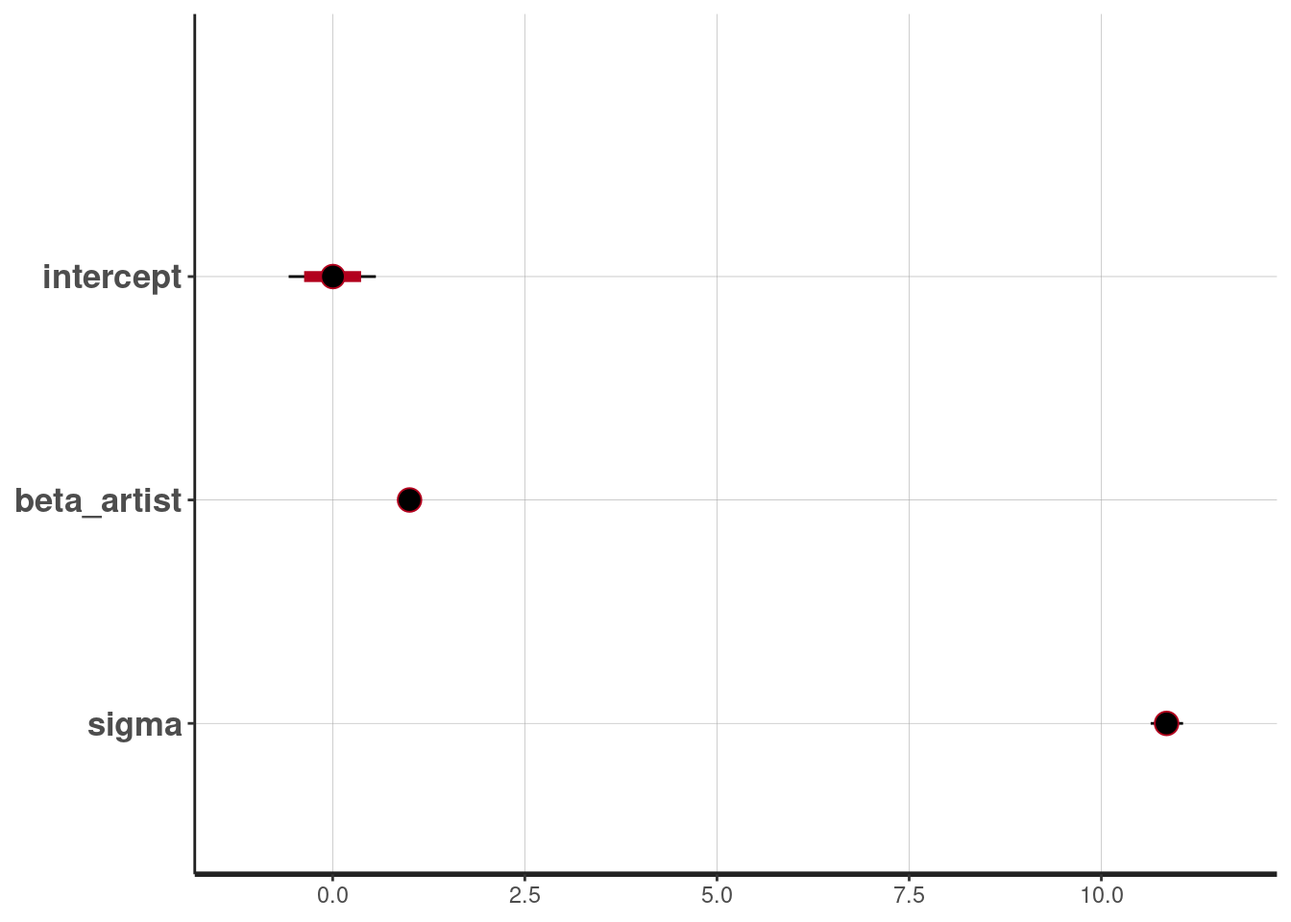
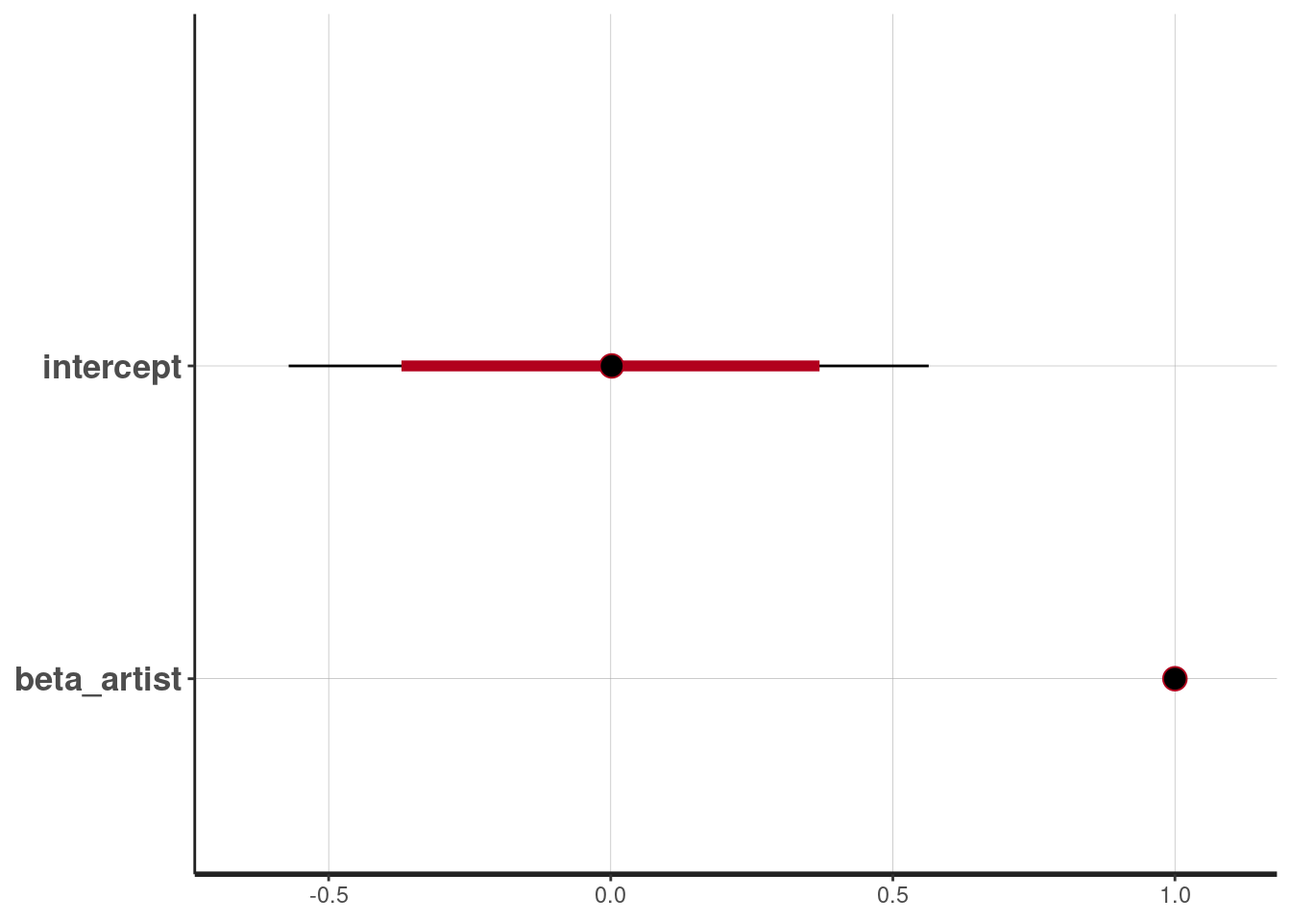
ya con render

diff --git a/main.html b/main.html
@@ -92,9 +92,9 @@ pre > code.sourceCode > span > a:first-child::before { text-decoration: underlin
     <div>
     <div class="quarto-title-meta-heading">Authors</div>
     <div class="quarto-title-meta-contents">
-             <p>García Aguilar Luis Alberto </p>
-             <p>Sara Luz Valenzuela Camacho </p>
-             <p>Valeria </p>
+             <p>Luis Alberto García Aguilar </p>
+             <p>Sara Luz Valenzuela Camacho (204535) </p>
+             <p>Valeria Durán Rubio (124273) </p>
              <p>Iván </p>
           </div>
   </div>
@@ -113,21 +113,15 @@ pre > code.sourceCode > span > a:first-child::before { text-decoration: underlin
 </header>
 
 <section id="análisis-de-popularidad-de-canciones-en-spotify" class="level1">
-<h1>Análisis de popularidad de canciones en spotify</h1>
+<h1>Análisis de popularidad de canciones en Spotify</h1>
 <section id="introducción" class="level2">
 <h2 class="anchored" data-anchor-id="introducción">Introducción</h2>
-<p>De acuerdo con wikipedia, en la plataforma de Spotify se tiene acceso a más de 100 millones de canciones. Algunas canciones son más populares que otras. Si definimos a la variable 𝑌 como un rating de popularidad con 𝑌 ∈ [0, 100]. En general, entre más reproducciones recientes tenga una una canción, su rating de popularidad será mayor.</p>
-<p>Sabemos que la popularidad de una canción, no siempre es reflejo de su calidad, popularidad a largo plazo, o popularidad afuera de la audiencia de Spotify. Además del artista hay otras características que hacen popular a una canción, como la “valencia”, que define que tan alegre suena una pieza.</p>
+<p>De acuerdo con Wikipedia, en la plataforma de Spotify se tiene acceso a más de 100 millones de canciones. Algunas canciones son más populares que otras. Definimos a la variable <span class="math inline">\(Y\)</span> como un rating de popularidad con <span class="math inline">\(Y ∈ [0, 100]\)</span>. En general, entre más reproducciones recientes tenga una una canción, su rating de popularidad será mayor.</p>
+<p>Sabemos que la popularidad de una canción, no siempre es reflejo de su calidad, popularidad a largo plazo, o popularidad a fuera de la audiencia de Spotify. Además del artista hay otras características que hacen popular a una canción, como la “valencia”, que define qué tan alegre suena una pieza.</p>
 <p>Para el proyecto nos enfocaremos en entender:</p>
-<p><strong>Falta mencionar el modelo lineal y modelo lineal con prioris informativas</strong> * ¿Cuál es la popularidad típica de una canción en Spotify? * ¿Hasta donde influye el artista en la popularidad de la canción? * Para un sólo artista, ¿cómo varía la popularidad de sus canciones? * ¿Cómo influye la valencia en la popularidad de una canción?</p>
+<p><strong>Falta mencionar el modelo lineal y modelo lineal con prioris informativas</strong> * ¿Cuál es la popularidad típica de una canción en Spotify? * ¿Hasta dónde influye el artista en la popularidad de la canción? * Para un sólo artista, ¿cómo varía la popularidad de sus canciones? * ¿Cómo influye la valencia en la popularidad de una canción?</p>
 <p>Métodos:</p>
-<p>Para nuestro proyecto planeamos hacer tres tipos de modelos:</p>
-<ul>
-<li><strong>Modelo con parámetros homogéneos:</strong> Modelar la popularidad de las canciones sin tomar en cuenta el artista.</li>
-<li><strong>Modelo con parámetros heterogéneos:</strong> Modelar la popularidad de las canciones tomando en cuenta a los artistas que las interpretan.</li>
-<li><strong>Modelo Jerárquico:</strong> Una alternativa intermedia donde permitimos que la distribución inicial sobre la popularidad pueda adaptarse a los datos. Y comparar sus distribuciones predictivas con los datos observados, para ver cuál modela mejor y porqué.</li>
-<li><strong>Modelo Jerarquico con DAG:</strong> Haremos un DAG para agregar al modelo jerárquico la variable de valencia.</li>
-</ul>
+<p>Para nuestro proyecto haremos tres tipos de modelos: 1) Modelo con parámetros homogéneos: Modelar la popularidad de las canciones sin tomar en cuenta el artista. 2) Modelo con parámetros heterogéneos: Modelar la popularidad de las canciones tomando en cuenta a los artistas que las interpretan. 3) Modelo jerárquico: Una alternativa intermedia donde permitimos que la distribución inicial sobre la popularidad pueda adaptarse a los datos. Y comparar sus distribuciones predictivas con los datos observados, para ver cuál modela mejor y porqué. 3b) Modelo jerárquico con DAG: Haremos un DAG para agregar la variable de valencia al modelo jerárquico.</p>
 <p>Las librerías que utilizamos son las soguientes:</p>
 <div class="cell" data-hash="main_cache/html/unnamed-chunk-1_75c872f24e6f6362edeb678bcc09647f">
 <div class="sourceCode cell-code" id="cb1"><pre class="sourceCode r code-with-copy"><code class="sourceCode r"><span id="cb1-1"><a href="#cb1-1" aria-hidden="true" tabindex="-1"></a><span class="fu">library</span>(rstan)</span>
@@ -174,71 +168,71 @@ $ time_signature   &lt;int&gt; 4, 4, 4, 3, 4, 4, 3, 4, 4, 4, 4, 3, 4, 4, 4, 3, 4
 $ track_genre      &lt;chr&gt; "acoustic", "acoustic", "acoustic", "acoustic", "acou…</code></pre>
 </div>
 </div>
-<p>Contamos con 114000 registros de canciones y 21 características que los representan. Sin embargo vamos a ocupar sólo una muestra de 57,000 canciones. En el Anexo 1 de este trabajo se encuentra la limpieza y adecuación de datos para su uso en la modelación de la popularidad de las canciones.</p>
-<div class="cell" data-hash="main_cache/html/unnamed-chunk-3_81a0fdc6a64690fd858f997ca193c21f">
-<div class="sourceCode cell-code" id="cb4"><pre class="sourceCode r code-with-copy"><code class="sourceCode r"><span id="cb4-1"><a href="#cb4-1" aria-hidden="true" tabindex="-1"></a>datos <span class="ot">&lt;-</span> <span class="fu">read.csv</span>(<span class="st">"datos/muestra.csv"</span>) </span></code><button title="Copy to Clipboard" class="code-copy-button"><i class="bi"></i></button></pre></div>
+<p>Tenemos 114 mil registros de canciones y 21 características que los representan.Sin embargo vamos a ocupar sólo una muestra de 57,000 canciones. En el Anexo 1 de este trabajo se encuentra la limpieza y adecuación de datos para su uso en la modelación de la popularidad de las canciones.</p>
+<div class="cell" data-hash="main_cache/html/unnamed-chunk-3_ad334e488fdc50447e10ba54450b080e">
+<div class="sourceCode cell-code" id="cb4"><pre class="sourceCode r code-with-copy"><code class="sourceCode r"><span id="cb4-1"><a href="#cb4-1" aria-hidden="true" tabindex="-1"></a>datos <span class="ot">&lt;-</span> <span class="fu">read.csv</span>(<span class="st">"datos/muestra.csv"</span>)</span></code><button title="Copy to Clipboard" class="code-copy-button"><i class="bi"></i></button></pre></div>
 </div>
-<p>Obtenemos un resumen de los datos y sus variables</p>
-<div class="cell" data-hash="main_cache/html/unnamed-chunk-4_6050a89863c2cb02b7abe0d4f4a1df64">
+<p>Obtenemos un resumen de los datos y sus variables.</p>
+<div class="cell" data-hash="main_cache/html/unnamed-chunk-4_abce9368e1d0628749d503b878ec4e8d">
 <div class="sourceCode cell-code" id="cb5"><pre class="sourceCode r code-with-copy"><code class="sourceCode r"><span id="cb5-1"><a href="#cb5-1" aria-hidden="true" tabindex="-1"></a><span class="fu">print</span>(<span class="fu">summary</span>(datos))</span></code><button title="Copy to Clipboard" class="code-copy-button"><i class="bi"></i></button></pre></div>
 <div class="cell-output cell-output-stdout">
 <pre><code> artists_numeric       id           track_id           artists         
- Min.   :    1   Min.   :     0   Length:57000       Length:57000      
- 1st Qu.: 5327   1st Qu.: 28317   Class :character   Class :character  
- Median :10477   Median : 56956   Mode  :character   Mode  :character  
- Mean   :10564   Mean   : 57037                                        
- 3rd Qu.:15830   3rd Qu.: 85600                                        
- Max.   :21163   Max.   :113997                                        
-  album_name         track_name          popularity      duration_ms     
- Length:57000       Length:57000       Min.   :  0.00   Min.   :   8586  
- Class :character   Class :character   1st Qu.: 17.00   1st Qu.: 174002  
- Mode  :character   Mode  :character   Median : 34.00   Median : 212924  
-                                       Mean   : 33.15   Mean   : 228168  
-                                       3rd Qu.: 50.00   3rd Qu.: 261096  
-                                       Max.   :100.00   Max.   :5237295  
-    explicit        danceability        energy            key        
- Min.   :0.00000   Min.   :0.0000   Min.   :0.0000   Min.   : 0.000  
- 1st Qu.:0.00000   1st Qu.:0.4560   1st Qu.:0.4730   1st Qu.: 2.000  
- Median :0.00000   Median :0.5800   Median :0.6830   Median : 5.000  
- Mean   :0.08574   Mean   :0.5665   Mean   :0.6409   Mean   : 5.307  
- 3rd Qu.:0.00000   3rd Qu.:0.6950   3rd Qu.:0.8530   3rd Qu.: 8.000  
- Max.   :1.00000   Max.   :0.9850   Max.   :1.0000   Max.   :11.000  
+ Min.   :    1   Min.   :     6   Length:28500       Length:28500      
+ 1st Qu.: 3447   1st Qu.: 28646   Class :character   Class :character  
+ Median : 6772   Median : 56993   Mode  :character   Mode  :character  
+ Mean   : 6785   Mean   : 57185                                        
+ 3rd Qu.:10143   3rd Qu.: 85846                                        
+ Max.   :13569   Max.   :113997                                        
+  album_name         track_name          popularity     duration_ms     
+ Length:28500       Length:28500       Min.   :  0.0   Min.   :  13386  
+ Class :character   Class :character   1st Qu.: 17.0   1st Qu.: 173653  
+ Mode  :character   Mode  :character   Median : 35.0   Median : 212696  
+                                       Mean   : 33.2   Mean   : 227813  
+                                       3rd Qu.: 50.0   3rd Qu.: 260444  
+                                       Max.   :100.0   Max.   :4339826  
+    explicit        danceability        energy               key        
+ Min.   :0.00000   Min.   :0.0000   Min.   :0.0000195   Min.   : 0.000  
+ 1st Qu.:0.00000   1st Qu.:0.4560   1st Qu.:0.4730000   1st Qu.: 2.000  
+ Median :0.00000   Median :0.5800   Median :0.6860000   Median : 5.000  
+ Mean   :0.08509   Mean   :0.5668   Mean   :0.6421921   Mean   : 5.275  
+ 3rd Qu.:0.00000   3rd Qu.:0.6960   3rd Qu.:0.8540000   3rd Qu.: 8.000  
+ Max.   :1.00000   Max.   :0.9800   Max.   :1.0000000   Max.   :11.000  
     loudness            mode         speechiness       acousticness   
- Min.   :-46.591   Min.   :0.0000   Min.   :0.00000   Min.   :0.0000  
- 1st Qu.:-10.015   1st Qu.:0.0000   1st Qu.:0.03590   1st Qu.:0.0170  
- Median : -7.002   Median :1.0000   Median :0.04880   Median :0.1680  
- Mean   : -8.269   Mean   :0.6374   Mean   :0.08462   Mean   :0.3152  
- 3rd Qu.: -5.013   3rd Qu.:1.0000   3rd Qu.:0.08410   3rd Qu.:0.5990  
- Max.   :  3.156   Max.   :1.0000   Max.   :0.96300   Max.   :0.9960  
- instrumentalness       liveness         valence          tempo       
- Min.   :0.0000000   Min.   :0.0000   Min.   :0.000   Min.   :  0.00  
- 1st Qu.:0.0000000   1st Qu.:0.0979   1st Qu.:0.258   1st Qu.: 99.45  
- Median :0.0000406   Median :0.1320   Median :0.464   Median :122.04  
- Mean   :0.1557287   Mean   :0.2137   Mean   :0.474   Mean   :122.16  
- 3rd Qu.:0.0483250   3rd Qu.:0.2720   3rd Qu.:0.683   3rd Qu.:140.07  
- Max.   :1.0000000   Max.   :1.0000   Max.   :0.995   Max.   :220.53  
+ Min.   :-43.957   Min.   :0.0000   Min.   :0.00000   Min.   :0.0000  
+ 1st Qu.: -9.959   1st Qu.:0.0000   1st Qu.:0.03590   1st Qu.:0.0163  
+ Median : -6.967   Median :1.0000   Median :0.04870   Median :0.1630  
+ Mean   : -8.249   Mean   :0.6371   Mean   :0.08368   Mean   :0.3123  
+ 3rd Qu.: -5.011   3rd Qu.:1.0000   3rd Qu.:0.08320   3rd Qu.:0.5930  
+ Max.   :  1.023   Max.   :1.0000   Max.   :0.96200   Max.   :0.9960  
+ instrumentalness       liveness         valence           tempo       
+ Min.   :0.0000000   Min.   :0.0000   Min.   :0.0000   Min.   :  0.00  
+ 1st Qu.:0.0000000   1st Qu.:0.0982   1st Qu.:0.2580   1st Qu.: 99.35  
+ Median :0.0000384   Median :0.1320   Median :0.4640   Median :122.02  
+ Mean   :0.1571333   Mean   :0.2140   Mean   :0.4741   Mean   :122.06  
+ 3rd Qu.:0.0520000   3rd Qu.:0.2730   3rd Qu.:0.6850   3rd Qu.:140.06  
+ Max.   :1.0000000   Max.   :0.9940   Max.   :0.9950   Max.   :220.53  
  time_signature  track_genre        genre_factor       genre_numeric   
- Min.   :0.000   Length:57000       Length:57000       Min.   :  1.00  
+ Min.   :0.000   Length:28500       Length:28500       Min.   :  1.00  
  1st Qu.:4.000   Class :character   Class :character   1st Qu.: 29.00  
  Median :4.000   Mode  :character   Mode  :character   Median : 58.00  
- Mean   :3.902                                         Mean   : 57.54  
- 3rd Qu.:4.000                                         3rd Qu.: 86.00  
+ Mean   :3.903                                         Mean   : 57.69  
+ 3rd Qu.:4.000                                         3rd Qu.: 87.00  
  Max.   :5.000                                         Max.   :114.00  
  artists_factor     popularity_artist
- Length:57000       Min.   :  0.00   
- Class :character   1st Qu.: 19.31   
- Mode  :character   Median : 33.16   
-                    Mean   : 33.15   
-                    3rd Qu.: 47.00   
-                    Max.   :100.00   </code></pre>
+ Length:28500       Min.   :  0.0    
+ Class :character   1st Qu.: 19.0    
+ Mode  :character   Median : 33.5    
+                    Mean   : 33.2    
+                    3rd Qu.: 47.8    
+                    Max.   :100.0    </code></pre>
 </div>
 </div>
+<p>Cabe destacar que la popularidad va de 0 a 100, con una mediana de 33.24. Por su parte, la danzabilidad se mide entre 0 y 1 con una mediana de 0.57; asimismo, la energía varía entre 0 y 1 con una mediana de 0.64. La valencia oscila entre 0 y 1 con una mediana de 0.47, mientras que el tempo va de 0 a 243.37 con una mediana de 122.15.</p>
 </section>
-</section>
-<section id="métodos" class="level1">
-<h1>Métodos</h1>
-<section id="modelo-lineal" class="level2">
-<h2 class="anchored" data-anchor-id="modelo-lineal">Modelo lineal</h2>
+<section id="métodos" class="level2">
+<h2 class="anchored" data-anchor-id="métodos">Métodos</h2>
+<section id="modelo-lineal" class="level3">
+<h3 class="anchored" data-anchor-id="modelo-lineal">Modelo lineal</h3>
 <p>Generamos un modelo lineal con priors poco informativas.</p>
 <p>El modelo lineal simple lo expresamos como:</p>
 <p><span class="math inline">\(y_i=\beta_0 + \beta_1 * x_i + \sigma_i\)</span></p>
@@ -364,11 +358,14 @@ convergence, Rhat=1).</code></pre>
 </div>
 </div>
 <p>Observamos intervalos de credibilidad</p>
-<div class="cell" data-hash="main_cache/html/unnamed-chunk-8_5ccb78beffb7802c3d493b4ce45b56c4">
-<div class="sourceCode cell-code" id="cb17"><pre class="sourceCode r code-with-copy"><code class="sourceCode r"><span id="cb17-1"><a href="#cb17-1" aria-hidden="true" tabindex="-1"></a>extract_lineal <span class="ot">&lt;-</span> rstan<span class="sc">::</span><span class="fu">extract</span>(fit_lineal, <span class="at">permuted =</span> <span class="cn">TRUE</span>)</span>
+<div class="cell" data-hash="main_cache/html/unnamed-chunk-8_0c31dabf22d36b89abf84f55563e2706">
+<div class="sourceCode cell-code" id="cb17"><pre class="sourceCode r code-with-copy"><code class="sourceCode r"><span id="cb17-1"><a href="#cb17-1" aria-hidden="true" tabindex="-1"></a>extract_lineal <span class="ot">&lt;-</span> rstan<span class="sc">::</span><span class="fu">extract</span>(fit_lineal)</span>
 <span id="cb17-2"><a href="#cb17-2" aria-hidden="true" tabindex="-1"></a></span>
-<span id="cb17-3"><a href="#cb17-3" aria-hidden="true" tabindex="-1"></a></span>
-<span id="cb17-4"><a href="#cb17-4" aria-hidden="true" tabindex="-1"></a><span class="fu">stan_plot</span>(fit_lineal, <span class="at">prob =</span> <span class="fl">0.95</span>)</span></code><button title="Copy to Clipboard" class="code-copy-button"><i class="bi"></i></button></pre></div>
+<span id="cb17-3"><a href="#cb17-3" aria-hidden="true" tabindex="-1"></a><span class="fu">stan_plot</span>(</span>
+<span id="cb17-4"><a href="#cb17-4" aria-hidden="true" tabindex="-1"></a>  fit_lineal, </span>
+<span id="cb17-5"><a href="#cb17-5" aria-hidden="true" tabindex="-1"></a>  <span class="at">pars =</span> <span class="fu">c</span>(<span class="st">"mu_popularity"</span>, <span class="st">"beta_duration"</span>, <span class="st">"beta_explicito"</span>, <span class="st">"beta_dance"</span>, <span class="st">"beta_tempo"</span>, <span class="st">"beta_genre"</span>), </span>
+<span id="cb17-6"><a href="#cb17-6" aria-hidden="true" tabindex="-1"></a>  <span class="at">prob =</span> <span class="fl">0.95</span></span>
+<span id="cb17-7"><a href="#cb17-7" aria-hidden="true" tabindex="-1"></a>)</span></code><button title="Copy to Clipboard" class="code-copy-button"><i class="bi"></i></button></pre></div>
 <div class="cell-output cell-output-stderr">
 <pre><code>ci_level: 0.8 (80% intervals)</code></pre>
 </div>
@@ -381,8 +378,8 @@ convergence, Rhat=1).</code></pre>
 </div>
 <p>Podemos ver tambien, al observar los coeficientes, que el género y el grado de “daceability” tienen una mayor influencia sobre la popularidad de una canción.</p>
 </section>
-<section id="modelo-lineal-con-prioris-informativas" class="level2">
-<h2 class="anchored" data-anchor-id="modelo-lineal-con-prioris-informativas">Modelo lineal con prioris informativas</h2>
+<section id="modelo-lineal-con-prioris-informativas" class="level3">
+<h3 class="anchored" data-anchor-id="modelo-lineal-con-prioris-informativas">Modelo lineal con prioris informativas</h3>
 <p>Modelamos la opularidad en base a las siguientes características:</p>
 <ul>
 <li>Duración: duration_ms</li>
@@ -574,8 +571,12 @@ convergence, Rhat=1).</code></pre>
 </div>
 </div>
 <p>Observamos intervalos de credibilidad</p>
-<div class="cell" data-hash="main_cache/html/unnamed-chunk-12_4be58895289a6c402d98ff8bd388e37f">
-<div class="sourceCode cell-code" id="cb28"><pre class="sourceCode r code-with-copy"><code class="sourceCode r"><span id="cb28-1"><a href="#cb28-1" aria-hidden="true" tabindex="-1"></a><span class="fu">stan_plot</span>(fit, <span class="at">prob =</span> <span class="fl">0.95</span>)</span></code><button title="Copy to Clipboard" class="code-copy-button"><i class="bi"></i></button></pre></div>
+<div class="cell" data-hash="main_cache/html/unnamed-chunk-12_ee05f6bc1d1c01b2f7bd57aa26ac946d">
+<div class="sourceCode cell-code" id="cb28"><pre class="sourceCode r code-with-copy"><code class="sourceCode r"><span id="cb28-1"><a href="#cb28-1" aria-hidden="true" tabindex="-1"></a><span class="fu">stan_plot</span>(</span>
+<span id="cb28-2"><a href="#cb28-2" aria-hidden="true" tabindex="-1"></a>  fit, </span>
+<span id="cb28-3"><a href="#cb28-3" aria-hidden="true" tabindex="-1"></a>  <span class="at">pars =</span> <span class="fu">c</span>(<span class="st">"phi_popularity"</span>, <span class="st">"p_duration"</span>, <span class="st">"p_explicit"</span>, <span class="st">"p_dance"</span>, <span class="st">"mu_tempo"</span>, <span class="st">"mu_genre"</span>, <span class="st">"p_tempo"</span>, <span class="st">"p_genre"</span>), </span>
+<span id="cb28-4"><a href="#cb28-4" aria-hidden="true" tabindex="-1"></a>  <span class="at">prob =</span> <span class="fl">0.95</span></span>
+<span id="cb28-5"><a href="#cb28-5" aria-hidden="true" tabindex="-1"></a>)</span></code><button title="Copy to Clipboard" class="code-copy-button"><i class="bi"></i></button></pre></div>
 <div class="cell-output cell-output-stderr">
 <pre><code>ci_level: 0.8 (80% intervals)</code></pre>
 </div>
@@ -588,8 +589,8 @@ convergence, Rhat=1).</code></pre>
 </div>
 <p>Notamos que entre los coeficientes más altos se encuentran: genero, “danceability” y “explicit”.</p>
 </section>
-<section id="modelo-de-popularidad-individual" class="level2">
-<h2 class="anchored" data-anchor-id="modelo-de-popularidad-individual">Modelo de popularidad individual</h2>
+<section id="modelo-de-popularidad-individual" class="level3">
+<h3 class="anchored" data-anchor-id="modelo-de-popularidad-individual">Modelo de popularidad individual</h3>
 <p>El siguente modelo considerará solo la popularidad del artista como predictor de la popularidad de la canción.</p>
 <div class="cell" data-hash="main_cache/html/unnamed-chunk-13_776810ecc067f65913a7303b35e0eb8c">
 <div class="sourceCode cell-code" id="cb31"><pre class="sourceCode r code-with-copy"><code class="sourceCode r"><span id="cb31-1"><a href="#cb31-1" aria-hidden="true" tabindex="-1"></a>individual_code <span class="ot">&lt;-</span><span class="st">"</span></span>
@@ -649,7 +650,7 @@ compilation terminated.
 make: *** [/usr/lib/R/etc/Makeconf:191: foo.o] Error 1</code></pre>
 </div>
 </div>
-<div class="cell" data-hash="main_cache/html/unnamed-chunk-14_feb88b134b5203631d120d9df67b67b7">
+<div class="cell" data-hash="main_cache/html/unnamed-chunk-14_68be1df0db1d241966ae3239ecc877ca">
 <div class="sourceCode cell-code" id="cb34"><pre class="sourceCode r code-with-copy"><code class="sourceCode r"><span id="cb34-1"><a href="#cb34-1" aria-hidden="true" tabindex="-1"></a>stan_indiv_data <span class="ot">&lt;-</span> <span class="fu">list</span>(</span>
 <span id="cb34-2"><a href="#cb34-2" aria-hidden="true" tabindex="-1"></a>  <span class="at">N =</span> <span class="fu">nrow</span>(selected_datos),</span>
 <span id="cb34-3"><a href="#cb34-3" aria-hidden="true" tabindex="-1"></a>  <span class="at">popularity =</span> selected_datos<span class="sc">$</span>popularity,</span>
@@ -658,7 +659,7 @@ make: *** [/usr/lib/R/etc/Makeconf:191: foo.o] Error 1</code></pre>
 <span id="cb34-6"><a href="#cb34-6" aria-hidden="true" tabindex="-1"></a></span>
 <span id="cb34-7"><a href="#cb34-7" aria-hidden="true" tabindex="-1"></a></span>
 <span id="cb34-8"><a href="#cb34-8" aria-hidden="true" tabindex="-1"></a><span class="co"># Ajustar el modelo a los datos</span></span>
-<span id="cb34-9"><a href="#cb34-9" aria-hidden="true" tabindex="-1"></a>individual_fit <span class="ot">&lt;-</span> <span class="fu">sampling</span>(individual_model, <span class="at">data =</span> stan_indiv_data, <span class="at">chains =</span> <span class="dv">4</span>, <span class="at">iter =</span> <span class="dv">10000</span>, <span class="at">warmup =</span> <span class="dv">500</span>)</span></code><button title="Copy to Clipboard" class="code-copy-button"><i class="bi"></i></button></pre></div>
+<span id="cb34-9"><a href="#cb34-9" aria-hidden="true" tabindex="-1"></a>individual_fit <span class="ot">&lt;-</span> <span class="fu">sampling</span>(individual_model, <span class="at">data =</span> stan_indiv_data, <span class="at">chains =</span> <span class="dv">4</span>, <span class="at">iter =</span> <span class="dv">10000</span>, <span class="at">warmup =</span> <span class="dv">500</span>, <span class="at">seed=</span><span class="dv">123</span>)</span></code><button title="Copy to Clipboard" class="code-copy-button"><i class="bi"></i></button></pre></div>
 </div>
 <div class="cell" data-hash="main_cache/html/unnamed-chunk-15_f68af880a0be09a7fccef2cfd00335ea">
 <div class="sourceCode cell-code" id="cb35"><pre class="sourceCode r code-with-copy"><code class="sourceCode r"><span id="cb35-1"><a href="#cb35-1" aria-hidden="true" tabindex="-1"></a><span class="fu">print</span>(individual_fit)</span></code><button title="Copy to Clipboard" class="code-copy-button"><i class="bi"></i></button></pre></div>
@@ -684,8 +685,12 @@ and Rhat is the potential scale reduction factor on split chains (at
 convergence, Rhat=1).</code></pre>
 </div>
 </div>
-<div class="cell" data-hash="main_cache/html/unnamed-chunk-16_5508bc85c0ab14c75ab501c3f64c198b">
-<div class="sourceCode cell-code" id="cb37"><pre class="sourceCode r code-with-copy"><code class="sourceCode r"><span id="cb37-1"><a href="#cb37-1" aria-hidden="true" tabindex="-1"></a><span class="fu">stan_plot</span>(individual_fit, <span class="at">prob =</span> <span class="fl">0.95</span>)</span></code><button title="Copy to Clipboard" class="code-copy-button"><i class="bi"></i></button></pre></div>
+<div class="cell" data-hash="main_cache/html/unnamed-chunk-16_243c1f41abac436d5f0d60cd5e19d600">
+<div class="sourceCode cell-code" id="cb37"><pre class="sourceCode r code-with-copy"><code class="sourceCode r"><span id="cb37-1"><a href="#cb37-1" aria-hidden="true" tabindex="-1"></a><span class="fu">stan_plot</span>(</span>
+<span id="cb37-2"><a href="#cb37-2" aria-hidden="true" tabindex="-1"></a>  individual_fit, </span>
+<span id="cb37-3"><a href="#cb37-3" aria-hidden="true" tabindex="-1"></a>  <span class="at">pars =</span> <span class="fu">c</span>(<span class="st">"intercept"</span>, <span class="st">"beta_artist"</span>), </span>
+<span id="cb37-4"><a href="#cb37-4" aria-hidden="true" tabindex="-1"></a>  <span class="at">prob =</span> <span class="fl">0.95</span></span>
+<span id="cb37-5"><a href="#cb37-5" aria-hidden="true" tabindex="-1"></a>)</span></code><button title="Copy to Clipboard" class="code-copy-button"><i class="bi"></i></button></pre></div>
 <div class="cell-output cell-output-stderr">
 <pre><code>ci_level: 0.8 (80% intervals)</code></pre>
 </div>
@@ -745,8 +750,8 @@ convergence, Rhat=1).</code></pre>
 <span id="cb42-3"><a href="#cb42-3" aria-hidden="true" tabindex="-1"></a><span class="fu">par</span>(<span class="at">mar =</span> <span class="fu">c</span>(<span class="dv">5</span>, <span class="dv">4</span>, <span class="dv">4</span>, <span class="dv">2</span>) <span class="sc">+</span> <span class="fl">0.1</span>)</span></code><button title="Copy to Clipboard" class="code-copy-button"><i class="bi"></i></button></pre></div>
 </div>
 </section>
-<section id="modelo-popularidad-entre-artistas" class="level2">
-<h2 class="anchored" data-anchor-id="modelo-popularidad-entre-artistas">Modelo popularidad entre artistas</h2>
+<section id="modelo-popularidad-entre-artistas" class="level3">
+<h3 class="anchored" data-anchor-id="modelo-popularidad-entre-artistas">Modelo popularidad entre artistas</h3>
 <div class="cell" data-hash="main_cache/html/unnamed-chunk-19_2afe5acf372ce9e6b4938af3a3b9cc62">
 <div class="sourceCode cell-code" id="cb43"><pre class="sourceCode r code-with-copy"><code class="sourceCode r"><span id="cb43-1"><a href="#cb43-1" aria-hidden="true" tabindex="-1"></a>general_stan_code <span class="ot">&lt;-</span><span class="st">" </span></span>
 <span id="cb43-2"><a href="#cb43-2" aria-hidden="true" tabindex="-1"></a><span class="st">data {</span></span>
@@ -851,8 +856,12 @@ and Rhat is the potential scale reduction factor on split chains (at
 convergence, Rhat=1).</code></pre>
 </div>
 </div>
-<div class="cell" data-hash="main_cache/html/unnamed-chunk-22_1cd0d3d68e2a36ddb2d15f817cf2ba65">
-<div class="sourceCode cell-code" id="cb49"><pre class="sourceCode r code-with-copy"><code class="sourceCode r"><span id="cb49-1"><a href="#cb49-1" aria-hidden="true" tabindex="-1"></a><span class="fu">stan_plot</span>(general_fit, <span class="at">prob =</span> <span class="fl">0.95</span>)</span></code><button title="Copy to Clipboard" class="code-copy-button"><i class="bi"></i></button></pre></div>
+<div class="cell" data-hash="main_cache/html/unnamed-chunk-22_ea2e0cf1832daa811d4ed47fba6c5eb1">
+<div class="sourceCode cell-code" id="cb49"><pre class="sourceCode r code-with-copy"><code class="sourceCode r"><span id="cb49-1"><a href="#cb49-1" aria-hidden="true" tabindex="-1"></a><span class="fu">stan_plot</span>(</span>
+<span id="cb49-2"><a href="#cb49-2" aria-hidden="true" tabindex="-1"></a>  general_fit, </span>
+<span id="cb49-3"><a href="#cb49-3" aria-hidden="true" tabindex="-1"></a>  <span class="at">pars =</span> <span class="fu">c</span>(<span class="st">"intercept"</span>, <span class="st">"beta_artist"</span>), </span>
+<span id="cb49-4"><a href="#cb49-4" aria-hidden="true" tabindex="-1"></a>  <span class="at">prob =</span> <span class="fl">0.95</span></span>
+<span id="cb49-5"><a href="#cb49-5" aria-hidden="true" tabindex="-1"></a>)</span></code><button title="Copy to Clipboard" class="code-copy-button"><i class="bi"></i></button></pre></div>
 <div class="cell-output cell-output-stderr">
 <pre><code>ci_level: 0.8 (80% intervals)</code></pre>
 </div>
@@ -909,8 +918,8 @@ convergence, Rhat=1).</code></pre>
 <span id="cb54-3"><a href="#cb54-3" aria-hidden="true" tabindex="-1"></a><span class="fu">par</span>(<span class="at">mar =</span> <span class="fu">c</span>(<span class="dv">5</span>, <span class="dv">4</span>, <span class="dv">4</span>, <span class="dv">2</span>) <span class="sc">+</span> <span class="fl">0.1</span>)</span></code><button title="Copy to Clipboard" class="code-copy-button"><i class="bi"></i></button></pre></div>
 </div>
 </section>
-<section id="modelo-jerárquico" class="level2">
-<h2 class="anchored" data-anchor-id="modelo-jerárquico">Modelo jerárquico</h2>
+<section id="modelo-jerárquico" class="level3">
+<h3 class="anchored" data-anchor-id="modelo-jerárquico">Modelo jerárquico</h3>
 <div class="cell" data-hash="main_cache/html/unnamed-chunk-25_3011830a40c04962c98531564530e230">
 <div class="sourceCode cell-code" id="cb55"><pre class="sourceCode r code-with-copy"><code class="sourceCode r"><span id="cb55-1"><a href="#cb55-1" aria-hidden="true" tabindex="-1"></a>jerarquico_code <span class="ot">&lt;-</span> <span class="st">"</span></span>
 <span id="cb55-2"><a href="#cb55-2" aria-hidden="true" tabindex="-1"></a><span class="st">data {</span></span>
@@ -973,7 +982,7 @@ make: *** [/usr/lib/R/etc/Makeconf:191: foo.o] Error 1</code></pre>
 </div>
 </div>
 <p>Ejecutamos el modelo</p>
-<div class="cell" data-hash="main_cache/html/unnamed-chunk-26_2b6eccfdf2151d2e168a5682a69530a1">
+<div class="cell" data-hash="main_cache/html/unnamed-chunk-26_2fdc01b23e9a7c3ebc11dacee54c78b6">
 <div class="sourceCode cell-code" id="cb58"><pre class="sourceCode r code-with-copy"><code class="sourceCode r"><span id="cb58-1"><a href="#cb58-1" aria-hidden="true" tabindex="-1"></a>stan_jerarquico_data <span class="ot">&lt;-</span> <span class="fu">list</span>(</span>
 <span id="cb58-2"><a href="#cb58-2" aria-hidden="true" tabindex="-1"></a>  <span class="at">N =</span> <span class="fu">nrow</span>(selected_datos),</span>
 <span id="cb58-3"><a href="#cb58-3" aria-hidden="true" tabindex="-1"></a>  <span class="at">popularity =</span> selected_datos<span class="sc">$</span>popularity,</span>
@@ -983,13 +992,17 @@ make: *** [/usr/lib/R/etc/Makeconf:191: foo.o] Error 1</code></pre>
 <span id="cb58-7"><a href="#cb58-7" aria-hidden="true" tabindex="-1"></a></span>
 <span id="cb58-8"><a href="#cb58-8" aria-hidden="true" tabindex="-1"></a></span>
 <span id="cb58-9"><a href="#cb58-9" aria-hidden="true" tabindex="-1"></a><span class="co"># Ajustar el modelo a los datos</span></span>
-<span id="cb58-10"><a href="#cb58-10" aria-hidden="true" tabindex="-1"></a>jerarquico_fit <span class="ot">&lt;-</span> <span class="fu">sampling</span>(jerarquico_model, <span class="at">data =</span> stan_jerarquico_data, <span class="at">chains =</span> <span class="dv">4</span>, <span class="at">iter =</span> <span class="dv">10000</span>, <span class="at">warmup =</span> <span class="dv">500</span>)</span>
+<span id="cb58-10"><a href="#cb58-10" aria-hidden="true" tabindex="-1"></a>jerarquico_fit <span class="ot">&lt;-</span> <span class="fu">sampling</span>(jerarquico_model, <span class="at">data =</span> stan_jerarquico_data, <span class="at">chains =</span> <span class="dv">4</span>, <span class="at">iter =</span> <span class="dv">10000</span>, <span class="at">warmup =</span> <span class="dv">500</span>, <span class="at">seed=</span><span class="dv">123</span>)</span>
 <span id="cb58-11"><a href="#cb58-11" aria-hidden="true" tabindex="-1"></a></span>
 <span id="cb58-12"><a href="#cb58-12" aria-hidden="true" tabindex="-1"></a><span class="fu">print</span>(jerarquico_fit)</span></code><button title="Copy to Clipboard" class="code-copy-button"><i class="bi"></i></button></pre></div>
 </div>
 <p>Observamos el resumen del entrenamiento</p>
-<div class="cell" data-hash="main_cache/html/unnamed-chunk-27_49b4c002b092dbdfcb0c6090d0808bf4">
-<div class="sourceCode cell-code" id="cb59"><pre class="sourceCode r code-with-copy"><code class="sourceCode r"><span id="cb59-1"><a href="#cb59-1" aria-hidden="true" tabindex="-1"></a><span class="fu">stan_plot</span>(jerarquico_fit, <span class="at">prob =</span> <span class="fl">0.95</span>)</span></code><button title="Copy to Clipboard" class="code-copy-button"><i class="bi"></i></button></pre></div>
+<div class="cell" data-hash="main_cache/html/unnamed-chunk-27_51a3d3e9e223f7fef80240417973c994">
+<div class="sourceCode cell-code" id="cb59"><pre class="sourceCode r code-with-copy"><code class="sourceCode r"><span id="cb59-1"><a href="#cb59-1" aria-hidden="true" tabindex="-1"></a><span class="fu">stan_plot</span>(</span>
+<span id="cb59-2"><a href="#cb59-2" aria-hidden="true" tabindex="-1"></a>  jerarquico_fit, </span>
+<span id="cb59-3"><a href="#cb59-3" aria-hidden="true" tabindex="-1"></a>  <span class="at">pars =</span> <span class="fu">c</span>(<span class="st">"intercept"</span>, <span class="st">"beta_individual_artist"</span>, <span class="st">"beta_avg_artist"</span>), </span>
+<span id="cb59-4"><a href="#cb59-4" aria-hidden="true" tabindex="-1"></a>  <span class="at">prob =</span> <span class="fl">0.95</span></span>
+<span id="cb59-5"><a href="#cb59-5" aria-hidden="true" tabindex="-1"></a>)</span></code><button title="Copy to Clipboard" class="code-copy-button"><i class="bi"></i></button></pre></div>
 <div class="cell-output cell-output-stderr">
 <pre><code>ci_level: 0.8 (80% intervals)</code></pre>
 </div>
@@ -1049,21 +1062,22 @@ make: *** [/usr/lib/R/etc/Makeconf:191: foo.o] Error 1</code></pre>
 </div>
 </section>
 </section>
-<section id="resultados" class="level1">
-<h1>Resultados</h1>
+<section id="resultados" class="level2">
+<h2 class="anchored" data-anchor-id="resultados">Resultados</h2>
 <p>[La aplicación de los métodos a los datos. Los resultados deben ser presentados en forma fácil de entender, a través de gráficas, tablas de resumen de los resultados. En todos los casos, las gráficas y tablas tienen que ser relevantes para la comunicación de los resultados, no tienen que ser redundantes, y tienen que ser correctas.]</p>
 </section>
-<section id="conclusiones" class="level1">
-<h1>Conclusiones</h1>
+<section id="conclusiones" class="level2">
+<h2 class="anchored" data-anchor-id="conclusiones">Conclusiones</h2>
 <p>[un resumen de la conclusión del estudio, en donde se especifíque cómo se resolvió el problema propuesto, así como futuras vías de ampliación del estudio. También mencionar las limitaciones que se encontraron, y porqué no se pudieron atacar algunos aspectos originales del problema.]</p>
 </section>
-<section id="fuentes" class="level1">
-<h1>Fuentes</h1>
+<section id="fuentes" class="level2">
+<h2 class="anchored" data-anchor-id="fuentes">Fuentes</h2>
 <p>[fuentes bibliográficas utilizadas.]</p>
 </section>
-<section id="anexos" class="level1">
-<h1>Anexos</h1>
+<section id="anexos" class="level2">
+<h2 class="anchored" data-anchor-id="anexos">Anexos</h2>
 <p>[en caso de que sea necesario hacer tablas o resultados extensivos, será conveniente ponerlos en un anexo. No se aceptarán salidas extensas como parte principal del reporte.]</p>
+</section>
 </section>
 
 </main>
